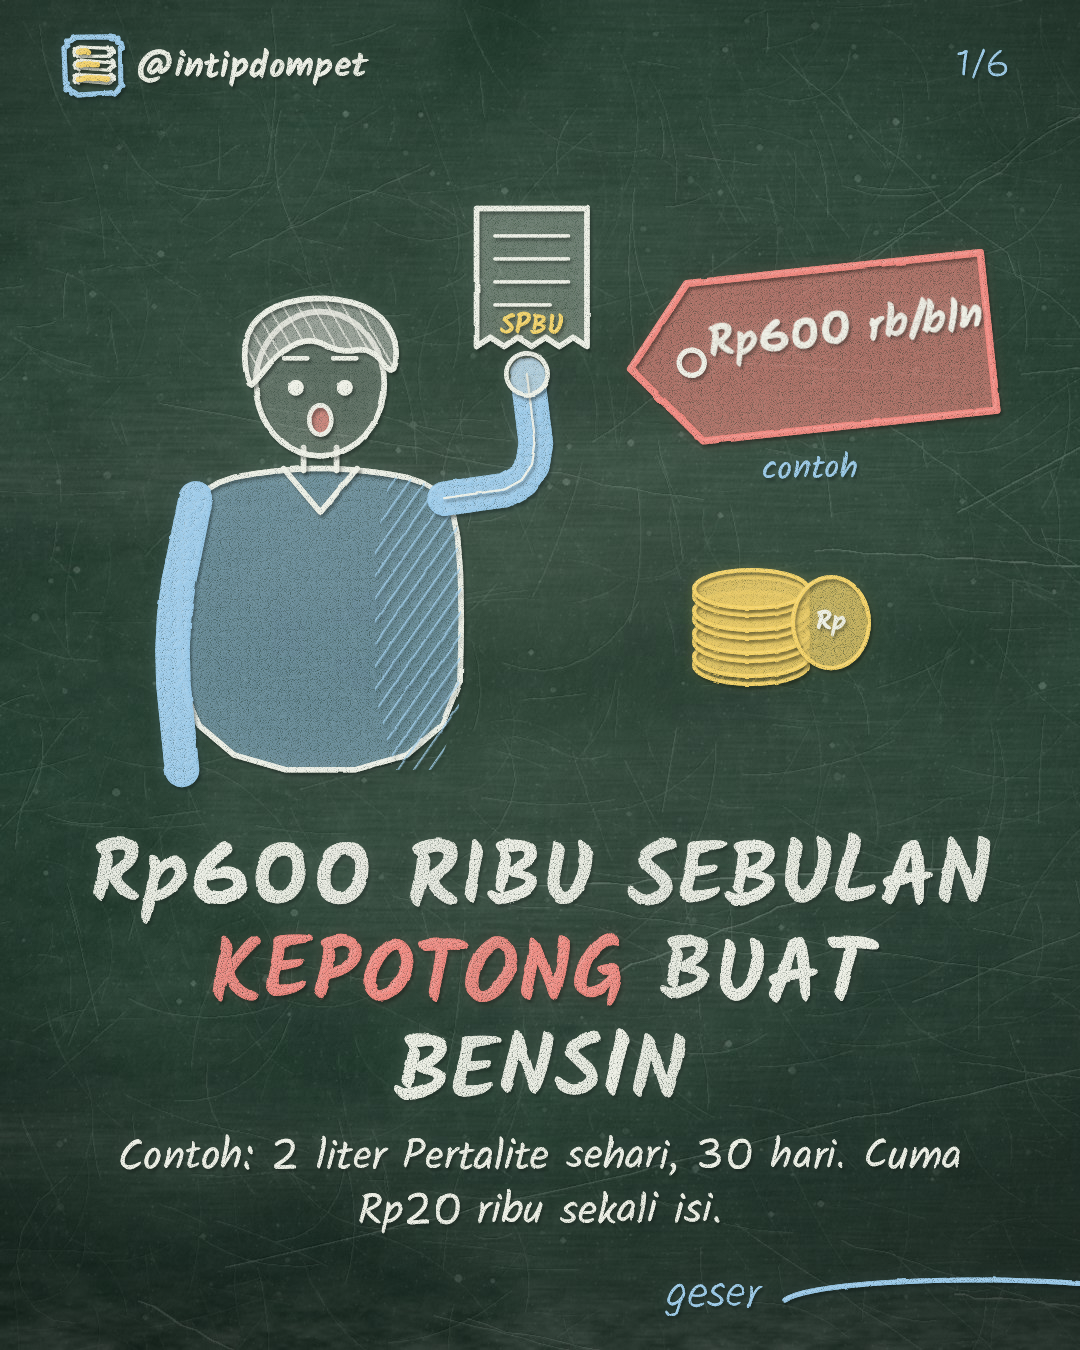
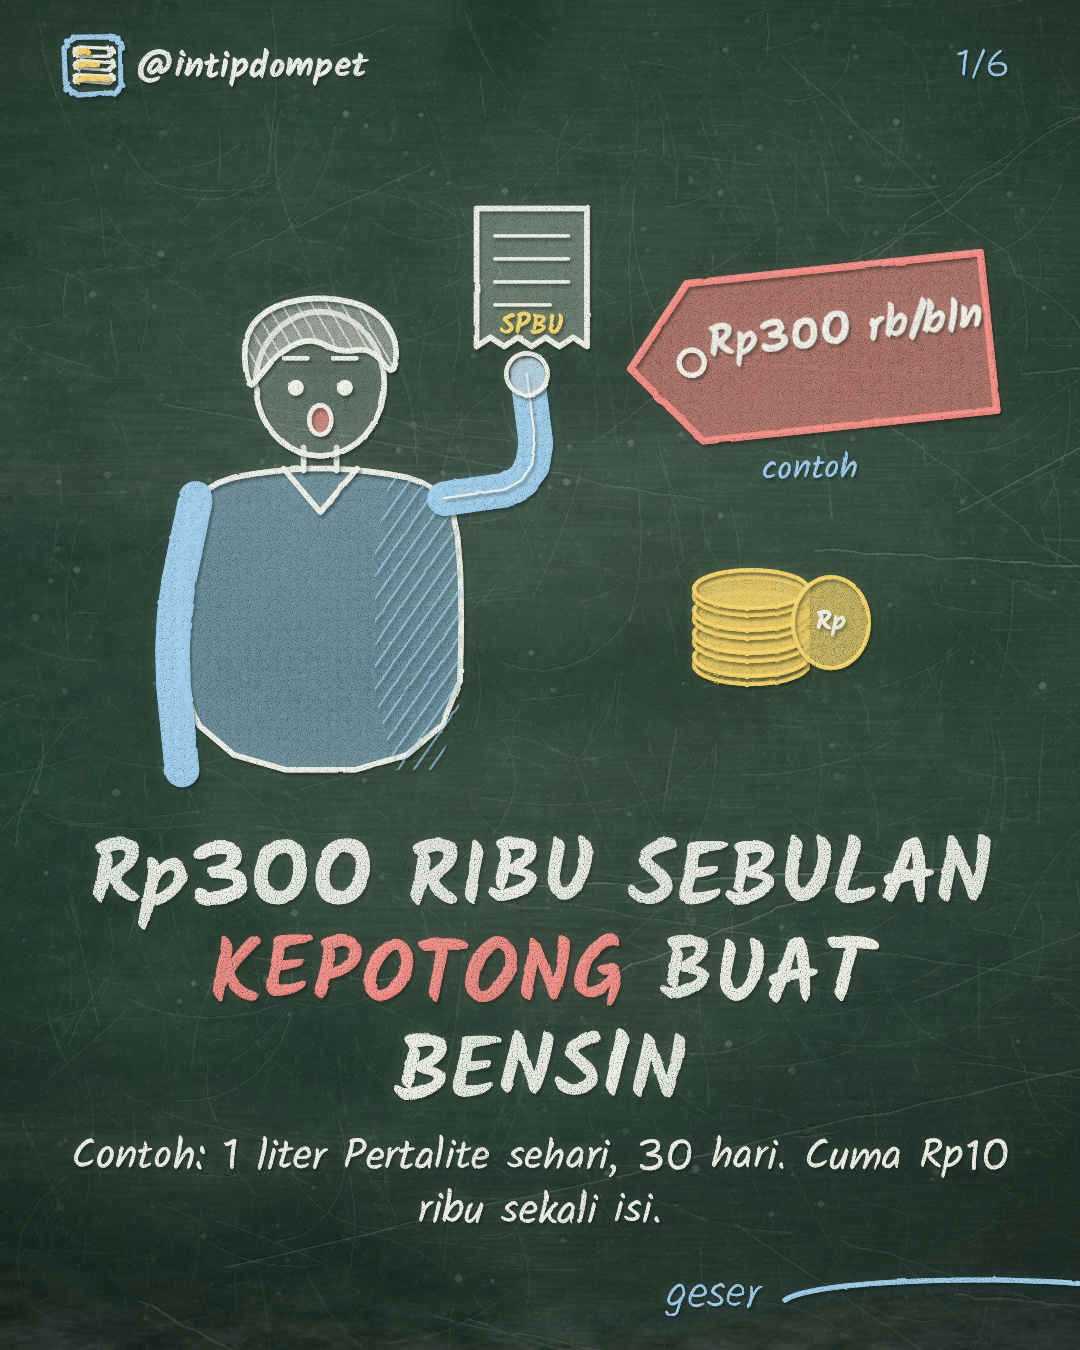
Carousel bensin 17 Nov: render ulang contoh 1 liter/hari (Rp300 rb); angka dan satuannya tidak dipisah baris (spasi tak terputus)
Claude-Session: https://claude.ai/code/session_01KMbroAGncEDBsqPKKLLpNR

diff --git a/src/papan/Carousel.tsx b/src/papan/Carousel.tsx
@@ -53,14 +53,14 @@ const urai = (teks: string, dasar: string): Potong[] => {
     if (WARNA_TANDA[c]) {
       const j = teks.indexOf(PASANGAN[c], i + 1);
       if (j > i) {
-        for (const kata of teks.slice(i + 1, j).split(/(\s+)/)) if (kata) hasil.push({ t: kata, warna: WARNA_TANDA[c] });
+        for (const kata of teks.slice(i + 1, j).split(/([ \t\n]+)/)) if (kata) hasil.push({ t: kata, warna: WARNA_TANDA[c] });
         i = j + 1;
         continue;
       }
     }
     const j = teks.slice(i + 1).search(/[[{<]/);
     const akhir = j < 0 ? teks.length : i + 1 + j;
-    for (const kata of teks.slice(i, akhir).split(/(\s+)/)) if (kata) hasil.push({ t: kata, warna: dasar });
+    for (const kata of teks.slice(i, akhir).split(/([ \t\n]+)/)) if (kata) hasil.push({ t: kata, warna: dasar });
     i = akhir;
   }
   return hasil;
